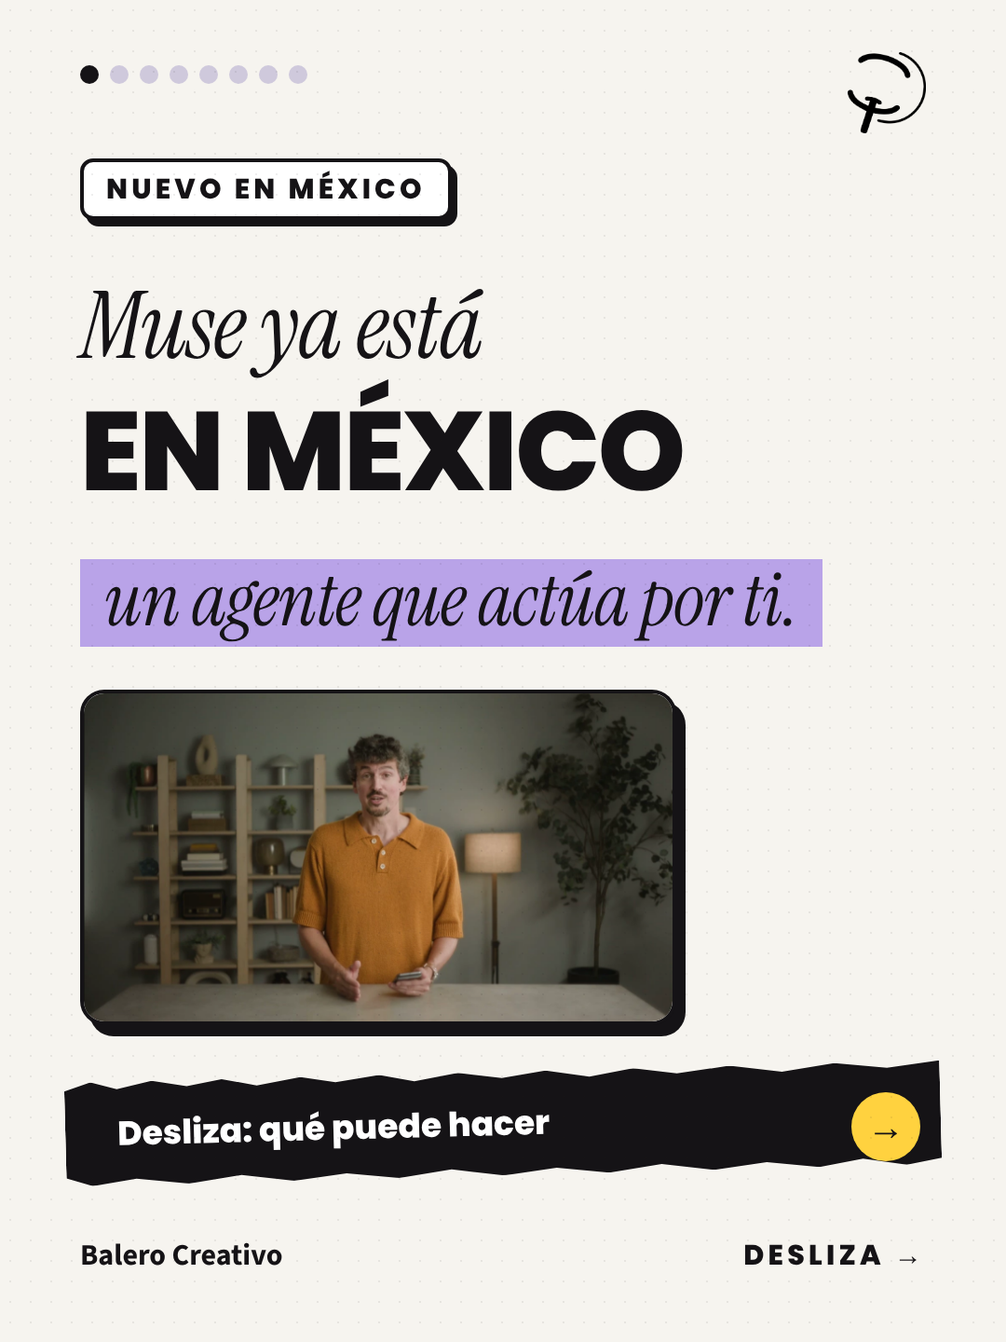
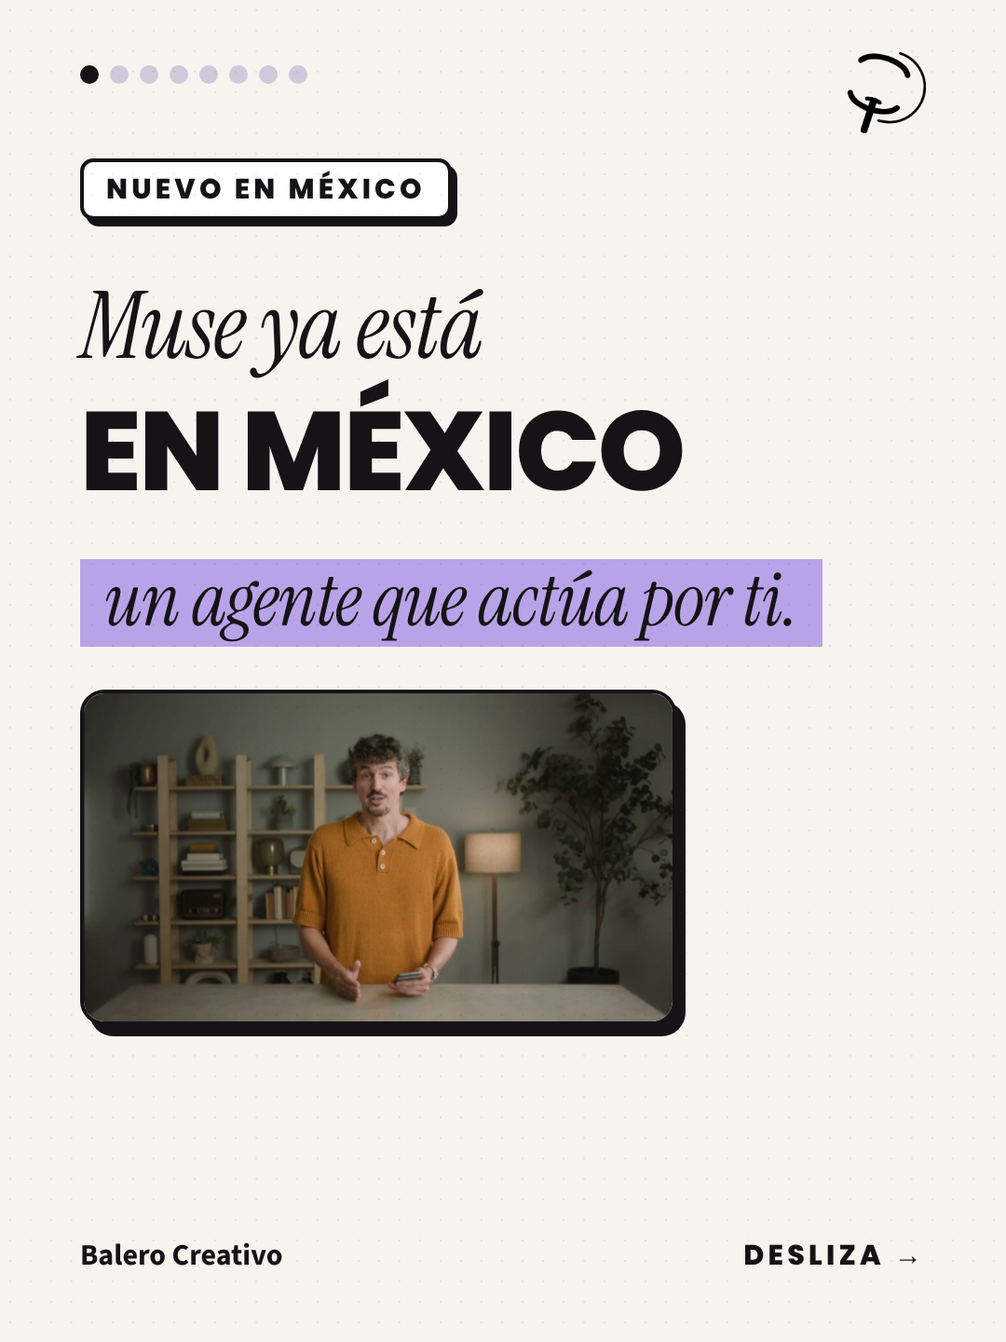
Carrusel Muse: un solo CTA (compartir al final); la portada usa solo la indicación DESLIZA
Claude-Session: https://claude.ai/code/session_01Bq7ZC7FDz5LcdZBgNXTuBm

Changed region(s): [[0.0611, 0.7812, 0.9472, 0.9062]]

diff --git a/clientes/balero/diseno/2026-11/estilo-editorial/semana/muse.html b/clientes/balero/diseno/2026-11/estilo-editorial/semana/muse.html
@@ -60,4 +60,4 @@ body{background:#888}
 .meter{position:absolute;left:86px;right:86px;background:#fff;border:4px solid #151316;border-radius:26px;box-shadow:10px 12px 0 #151316;overflow:hidden}
 
 .bigy{position:absolute;left:86px;font:800 330px/.9 Poppins;background:#FFD23F;padding:10px 30px 24px;letter-spacing:-.04em}
-</style></head><body><div class="s" id="s1"><div class="dots"><i style="background:#151316"></i><i style="background:#cfc9dc"></i><i style="background:#cfc9dc"></i><i style="background:#cfc9dc"></i><i style="background:#cfc9dc"></i><i style="background:#cfc9dc"></i><i style="background:#cfc9dc"></i><i style="background:#cfc9dc"></i></div><img class="logo" src="/home/user/balero/.claude/skills/balero-imagenes/assets/logo-balero.png"><div class="chip">NUEVO EN MÉXICO</div><div class="serif" style="position:absolute;left:86px;top:300px;font-size:100px;line-height:1">Muse ya está</div><div class="big" style="top:420px;font-size:120px;line-height:1.08">EN MÉXICO</div><div class="serif" style="position:absolute;left:86px;top:600px;font-size:80px;line-height:1"><span class="hl">un agente que actúa por ti.</span></div><div style="position:absolute;left:86px;top:740px;width:640px;height:360px;border:4px solid #151316;border-radius:26px;box-shadow:10px 12px 0 #151316;overflow:hidden;background:#fff"><img src="muse/img/real-walkthrough.png" style="width:100%;height:100%;object-fit:cover;object-position:50% 50%;display:block"></div><div class="tape" style="top:1150px;font-family:Poppins;font-weight:800;font-size:36px">Desliza: qué puede hacer</div><div class="arrow" style="top:1150px;transform:translateY(22px)">→</div><div class="foot"><span>Balero Creativo</span></div><div style="position:absolute;right:86px;bottom:70px;font:800 30px Poppins;letter-spacing:.14em">DESLIZA →</div></div><div class="s" id="s2"><div class="dots"><i style="background:#cfc9dc"></i><i style="background:#151316"></i><i style="background:#cfc9dc"></i><i style="background:#cfc9dc"></i><i style="background:#cfc9dc"></i><i style="background:#cfc9dc"></i><i style="background:#cfc9dc"></i><i style="background:#cfc9dc"></i></div><img class="logo" src="/home/user/balero/.claude/skills/balero-imagenes/assets/logo-balero.png"><div class="chip">1 · CORREO</div><div class="t" style="top:290px;font-size:100px">Empieza por tu<br><span class="serif" style="font-size:1.25em;text-transform:none;font-weight:400;background:#FFD23F;padding:0 18px">correo.</span></div><div class="body" style="top:560px;width:880px">Conectas tu correo y Muse lo lee. Te muestra primero lo que no puede esperar.</div><div style="position:absolute;left:86px;top:800px;width:420px;height:480px;border:4px solid #151316;border-radius:26px;box-shadow:10px 12px 0 #151316;overflow:hidden;background:#fff"><img src="muse/img/real-messaging.png" style="width:100%;height:100%;object-fit:cover;object-position:50% 12%;display:block"></div><div class="mini2" style="left:540px;top:820px;width:454px;height:200px;background:#fff;box-shadow:8px 9px 0 #151316;"><small>PRIMERO</small>Facturas, clientes y fechas que vencen</div><div class="mini2" style="left:540px;top:1040px;width:454px;height:200px;background:#fff;opacity:.6;border-style:dashed;"><small>DESPUÉS</small>El resto, cuando tengas tiempo</div><div class="foot"><span>Balero Creativo</span></div></div><div class="s" id="s3"><div class="dots"><i style="background:#cfc9dc"></i><i style="background:#cfc9dc"></i><i style="background:#151316"></i><i style="background:#cfc9dc"></i><i style="background:#cfc9dc"></i><i style="background:#cfc9dc"></i><i style="background:#cfc9dc"></i><i style="background:#cfc9dc"></i></div><img class="logo" src="/home/user/balero/.claude/skills/balero-imagenes/assets/logo-balero.png"><div class="chip">2 · AGENDA</div><div class="t" style="top:290px;font-size:100px">Acomoda tu<br><span class="serif" style="font-size:1.25em;text-transform:none;font-weight:400;background:#FFD23F;padding:0 18px">agenda.</span></div><div class="body" style="top:560px;width:880px">Conecta tu calendario. Muse ordena tus horarios para que sepas qué sigue.</div><div style="position:absolute;left:86px;top:800px;width:420px;height:480px;border:4px solid #151316;border-radius:26px;box-shadow:10px 12px 0 #151316;overflow:hidden;background:#fff"><img src="muse/img/real-goals.png" style="width:100%;height:100%;object-fit:contain;object-position:50% 50%;display:block"></div><div class="mini2" style="left:540px;top:820px;width:454px;height:200px;background:#fff;box-shadow:8px 9px 0 #151316;"><small>OBJETIVOS</small>Tu correo y tu calendario, juntos</div><div class="mini2" style="left:540px;top:1040px;width:454px;height:200px;background:#FFD23F;box-shadow:8px 9px 0 #151316;"><small>AVISOS</small>Te recuerda lo que viene</div><div class="foot"><span>Balero Creativo</span></div></div><div class="s" id="s4"><div class="dots"><i style="background:#cfc9dc"></i><i style="background:#cfc9dc"></i><i style="background:#cfc9dc"></i><i style="background:#151316"></i><i style="background:#cfc9dc"></i><i style="background:#cfc9dc"></i><i style="background:#cfc9dc"></i><i style="background:#cfc9dc"></i></div><img class="logo" src="/home/user/balero/.claude/skills/balero-imagenes/assets/logo-balero.png"><div class="chip">3 · INSTAGRAM</div><div class="t" style="top:290px;font-size:100px">Conecta tu<br><span class="serif" style="font-size:1.25em;text-transform:none;font-weight:400;background:#FFD23F;padding:0 18px">Instagram.</span></div><div class="body" style="top:560px;width:880px">Conecta tu cuenta de Instagram y Muse te muestra lo que sigue pendiente.</div><div style="position:absolute;left:86px;top:800px;width:420px;height:480px;border:4px solid #151316;border-radius:26px;box-shadow:10px 12px 0 #151316;overflow:hidden;background:#fff"><img src="muse/img/real-connectors.png" style="width:100%;height:100%;object-fit:contain;object-position:50% 50%;display:block"></div><div class="mini2" style="left:540px;top:820px;width:454px;height:200px;background:#fff;box-shadow:8px 9px 0 #151316;"><small>CONECTA</small>Tu cuenta de Instagram, en Muse</div><div class="mini2" style="left:540px;top:1040px;width:454px;height:200px;background:#FFD23F;box-shadow:8px 9px 0 #151316;"><small>PENDIENTE</small>Lo que sigue por responder</div><div class="foot"><span>Balero Creativo</span></div></div><div class="s" id="s5"><div class="dots"><i style="background:#cfc9dc"></i><i style="background:#cfc9dc"></i><i style="background:#cfc9dc"></i><i style="background:#cfc9dc"></i><i style="background:#151316"></i><i style="background:#cfc9dc"></i><i style="background:#cfc9dc"></i><i style="background:#cfc9dc"></i></div><img class="logo" src="/home/user/balero/.claude/skills/balero-imagenes/assets/logo-balero.png"><div class="chip">4 · CHAT Y VOZ</div><div class="t" style="top:290px;font-size:100px">Chatea con Muse<br><span class="serif" style="font-size:1.25em;text-transform:none;font-weight:400;background:#FFD23F;padding:0 18px">por texto o voz.</span></div><div class="body" style="top:560px;width:880px">Le escribes o le hablas. Muse también puede escribirte por WhatsApp.</div><div style="position:absolute;left:86px;top:800px;width:420px;height:480px;border:4px solid #151316;border-radius:26px;box-shadow:10px 12px 0 #151316;overflow:hidden;background:#fff"><img src="muse/img/real-messaging.png" style="width:100%;height:100%;object-fit:cover;object-position:50% 55%;display:block"></div><div class="mini2" style="left:540px;top:820px;width:454px;height:200px;background:#fff;box-shadow:8px 9px 0 #151316;"><small>TEXTO</small>Escribe lo que necesitas</div><div class="mini2" style="left:540px;top:1040px;width:454px;height:200px;background:#FFD23F;box-shadow:8px 9px 0 #151316;"><small>VOZ</small>Háblale y Muse te responde</div><div class="foot"><span>Balero Creativo</span></div></div><div class="s" id="s6"><div class="dots"><i style="background:#cfc9dc"></i><i style="background:#cfc9dc"></i><i style="background:#cfc9dc"></i><i style="background:#cfc9dc"></i><i style="background:#cfc9dc"></i><i style="background:#151316"></i><i style="background:#cfc9dc"></i><i style="background:#cfc9dc"></i></div><img class="logo" src="/home/user/balero/.claude/skills/balero-imagenes/assets/logo-balero.png"><div class="chip">5 · SIGUE TRABAJANDO</div><div class="t" style="top:290px;font-size:100px">Aunque cierres<br><span class="serif" style="font-size:1.25em;text-transform:none;font-weight:400;background:#FFD23F;padding:0 18px">la app.</span></div><div class="body" style="top:560px;width:880px">Muse sigue trabajando en segundo plano. No tienes que tener la app abierta.</div><div style="position:absolute;left:86px;top:800px;width:420px;height:480px;border:4px solid #151316;border-radius:26px;box-shadow:10px 12px 0 #151316;overflow:hidden;background:#fff"><img src="muse/img/real-browser.png" style="width:100%;height:100%;object-fit:cover;object-position:50% 55%;display:block"></div><div class="mini2" style="left:540px;top:820px;width:454px;height:200px;background:#fff;box-shadow:8px 9px 0 #151316;"><small>SEGUNDO PLANO</small>Busca asientos por ti</div><div class="mini2" style="left:540px;top:1040px;width:454px;height:200px;background:#FFD23F;box-shadow:8px 9px 0 #151316;"><small>TE AVISA</small>Te escribe si hay algo que revisar</div><div class="foot"><span>Balero Creativo</span></div></div><div class="s" id="s7"><div class="dots"><i style="background:#cfc9dc"></i><i style="background:#cfc9dc"></i><i style="background:#cfc9dc"></i><i style="background:#cfc9dc"></i><i style="background:#cfc9dc"></i><i style="background:#cfc9dc"></i><i style="background:#151316"></i><i style="background:#cfc9dc"></i></div><img class="logo" src="/home/user/balero/.claude/skills/balero-imagenes/assets/logo-balero.png"><div class="chip">6 · ANTES DE CONECTARLO</div><div class="t" style="top:290px;font-size:100px">Define qué le<br><span class="serif" style="font-size:1.25em;text-transform:none;font-weight:400;background:#FFD23F;padding:0 18px">das permiso.</span></div><div class="body" style="top:560px;width:880px">Un asistente con acceso a tu correo necesita reglas claras.</div><div style="position:absolute;left:86px;top:800px;width:420px;height:480px;border:4px solid #151316;border-radius:26px;box-shadow:10px 12px 0 #151316;overflow:hidden;background:#fff"><img src="muse/img/real-approvals.png" style="width:100%;height:100%;object-fit:cover;object-position:50% 78%;display:block"></div><div class="mini2" style="left:540px;top:820px;width:454px;height:200px;background:#fff;opacity:.6;border-style:dashed;"><small>ASÍ NO</small>Dar acceso a todo sin revisar</div><div class="mini2" style="left:540px;top:1040px;width:454px;height:200px;background:#FFD23F;box-shadow:8px 9px 0 #151316;"><small>ASÍ SÍ</small>Decide qué puede ver y qué no</div><div class="foot"><span>Balero Creativo</span></div></div><div class="s" id="s8"><div class="dots"><i style="background:#cfc9dc"></i><i style="background:#cfc9dc"></i><i style="background:#cfc9dc"></i><i style="background:#cfc9dc"></i><i style="background:#cfc9dc"></i><i style="background:#cfc9dc"></i><i style="background:#cfc9dc"></i><i style="background:#151316"></i></div><img class="logo" src="/home/user/balero/.claude/skills/balero-imagenes/assets/logo-balero.png"><div class="serif" style="position:absolute;left:86px;top:330px;font-size:104px;line-height:1">Guarda este</div><div class="big" style="top:450px;font-size:100px;line-height:1.08">CARRUSEL</div><div class="serif" style="position:absolute;left:86px;top:570px;font-size:96px;line-height:1"><span class="hl">para cuando lo pruebes.</span></div><div class="body" style="top:1010px;width:440px">Compártelo con quien siempre tiene la bandeja de correo llena.</div><div style="position:absolute;left:640px;top:860px;width:300px;height:380px;border:4px solid #151316;border-radius:26px;box-shadow:10px 12px 0 #151316;overflow:hidden;background:#fff"><img src="muse/img/real-secure-storage.png" style="width:100%;height:100%;object-fit:contain;object-position:50% 50%;display:block"></div><div class="tape" style="top:760px;font-family:Poppins;font-weight:800;font-size:36px">Compartir este carrusel</div><div class="arrow" style="top:760px;transform:translateY(22px)">→</div><div class="foot"><span>Balero Creativo</span></div><div style="position:absolute;right:86px;bottom:70px;font:700 30px 'Source Sans Pro';color:#3d3a42;text-align:right;max-width:640px">Fuente: Meta, muse.ai</div></div></body></html>
+</style></head><body><div class="s" id="s1"><div class="dots"><i style="background:#151316"></i><i style="background:#cfc9dc"></i><i style="background:#cfc9dc"></i><i style="background:#cfc9dc"></i><i style="background:#cfc9dc"></i><i style="background:#cfc9dc"></i><i style="background:#cfc9dc"></i><i style="background:#cfc9dc"></i></div><img class="logo" src="/home/user/balero/.claude/skills/balero-imagenes/assets/logo-balero.png"><div class="chip">NUEVO EN MÉXICO</div><div class="serif" style="position:absolute;left:86px;top:300px;font-size:100px;line-height:1">Muse ya está</div><div class="big" style="top:420px;font-size:120px;line-height:1.08">EN MÉXICO</div><div class="serif" style="position:absolute;left:86px;top:600px;font-size:80px;line-height:1"><span class="hl">un agente que actúa por ti.</span></div><div style="position:absolute;left:86px;top:740px;width:640px;height:360px;border:4px solid #151316;border-radius:26px;box-shadow:10px 12px 0 #151316;overflow:hidden;background:#fff"><img src="muse/img/real-walkthrough.png" style="width:100%;height:100%;object-fit:cover;object-position:50% 50%;display:block"></div><div class="foot"><span>Balero Creativo</span></div><div style="position:absolute;right:86px;bottom:70px;font:800 30px Poppins;letter-spacing:.14em">DESLIZA →</div></div><div class="s" id="s2"><div class="dots"><i style="background:#cfc9dc"></i><i style="background:#151316"></i><i style="background:#cfc9dc"></i><i style="background:#cfc9dc"></i><i style="background:#cfc9dc"></i><i style="background:#cfc9dc"></i><i style="background:#cfc9dc"></i><i style="background:#cfc9dc"></i></div><img class="logo" src="/home/user/balero/.claude/skills/balero-imagenes/assets/logo-balero.png"><div class="chip">1 · CORREO</div><div class="t" style="top:290px;font-size:100px">Empieza por tu<br><span class="serif" style="font-size:1.25em;text-transform:none;font-weight:400;background:#FFD23F;padding:0 18px">correo.</span></div><div class="body" style="top:560px;width:880px">Conectas tu correo y Muse lo lee. Te muestra primero lo que no puede esperar.</div><div style="position:absolute;left:86px;top:800px;width:420px;height:480px;border:4px solid #151316;border-radius:26px;box-shadow:10px 12px 0 #151316;overflow:hidden;background:#fff"><img src="muse/img/real-messaging.png" style="width:100%;height:100%;object-fit:cover;object-position:50% 12%;display:block"></div><div class="mini2" style="left:540px;top:820px;width:454px;height:200px;background:#fff;box-shadow:8px 9px 0 #151316;"><small>PRIMERO</small>Facturas, clientes y fechas que vencen</div><div class="mini2" style="left:540px;top:1040px;width:454px;height:200px;background:#fff;opacity:.6;border-style:dashed;"><small>DESPUÉS</small>El resto, cuando tengas tiempo</div><div class="foot"><span>Balero Creativo</span></div></div><div class="s" id="s3"><div class="dots"><i style="background:#cfc9dc"></i><i style="background:#cfc9dc"></i><i style="background:#151316"></i><i style="background:#cfc9dc"></i><i style="background:#cfc9dc"></i><i style="background:#cfc9dc"></i><i style="background:#cfc9dc"></i><i style="background:#cfc9dc"></i></div><img class="logo" src="/home/user/balero/.claude/skills/balero-imagenes/assets/logo-balero.png"><div class="chip">2 · AGENDA</div><div class="t" style="top:290px;font-size:100px">Acomoda tu<br><span class="serif" style="font-size:1.25em;text-transform:none;font-weight:400;background:#FFD23F;padding:0 18px">agenda.</span></div><div class="body" style="top:560px;width:880px">Conecta tu calendario. Muse ordena tus horarios para que sepas qué sigue.</div><div style="position:absolute;left:86px;top:800px;width:420px;height:480px;border:4px solid #151316;border-radius:26px;box-shadow:10px 12px 0 #151316;overflow:hidden;background:#fff"><img src="muse/img/real-goals.png" style="width:100%;height:100%;object-fit:contain;object-position:50% 50%;display:block"></div><div class="mini2" style="left:540px;top:820px;width:454px;height:200px;background:#fff;box-shadow:8px 9px 0 #151316;"><small>OBJETIVOS</small>Tu correo y tu calendario, juntos</div><div class="mini2" style="left:540px;top:1040px;width:454px;height:200px;background:#FFD23F;box-shadow:8px 9px 0 #151316;"><small>AVISOS</small>Te recuerda lo que viene</div><div class="foot"><span>Balero Creativo</span></div></div><div class="s" id="s4"><div class="dots"><i style="background:#cfc9dc"></i><i style="background:#cfc9dc"></i><i style="background:#cfc9dc"></i><i style="background:#151316"></i><i style="background:#cfc9dc"></i><i style="background:#cfc9dc"></i><i style="background:#cfc9dc"></i><i style="background:#cfc9dc"></i></div><img class="logo" src="/home/user/balero/.claude/skills/balero-imagenes/assets/logo-balero.png"><div class="chip">3 · INSTAGRAM</div><div class="t" style="top:290px;font-size:100px">Conecta tu<br><span class="serif" style="font-size:1.25em;text-transform:none;font-weight:400;background:#FFD23F;padding:0 18px">Instagram.</span></div><div class="body" style="top:560px;width:880px">Conecta tu cuenta de Instagram y Muse te muestra lo que sigue pendiente.</div><div style="position:absolute;left:86px;top:800px;width:420px;height:480px;border:4px solid #151316;border-radius:26px;box-shadow:10px 12px 0 #151316;overflow:hidden;background:#fff"><img src="muse/img/real-connectors.png" style="width:100%;height:100%;object-fit:contain;object-position:50% 50%;display:block"></div><div class="mini2" style="left:540px;top:820px;width:454px;height:200px;background:#fff;box-shadow:8px 9px 0 #151316;"><small>CONECTA</small>Tu cuenta de Instagram, en Muse</div><div class="mini2" style="left:540px;top:1040px;width:454px;height:200px;background:#FFD23F;box-shadow:8px 9px 0 #151316;"><small>PENDIENTE</small>Lo que sigue por responder</div><div class="foot"><span>Balero Creativo</span></div></div><div class="s" id="s5"><div class="dots"><i style="background:#cfc9dc"></i><i style="background:#cfc9dc"></i><i style="background:#cfc9dc"></i><i style="background:#cfc9dc"></i><i style="background:#151316"></i><i style="background:#cfc9dc"></i><i style="background:#cfc9dc"></i><i style="background:#cfc9dc"></i></div><img class="logo" src="/home/user/balero/.claude/skills/balero-imagenes/assets/logo-balero.png"><div class="chip">4 · CHAT Y VOZ</div><div class="t" style="top:290px;font-size:100px">Chatea con Muse<br><span class="serif" style="font-size:1.25em;text-transform:none;font-weight:400;background:#FFD23F;padding:0 18px">por texto o voz.</span></div><div class="body" style="top:560px;width:880px">Le escribes o le hablas. Muse también puede escribirte por WhatsApp.</div><div style="position:absolute;left:86px;top:800px;width:420px;height:480px;border:4px solid #151316;border-radius:26px;box-shadow:10px 12px 0 #151316;overflow:hidden;background:#fff"><img src="muse/img/real-messaging.png" style="width:100%;height:100%;object-fit:cover;object-position:50% 55%;display:block"></div><div class="mini2" style="left:540px;top:820px;width:454px;height:200px;background:#fff;box-shadow:8px 9px 0 #151316;"><small>TEXTO</small>Escribe lo que necesitas</div><div class="mini2" style="left:540px;top:1040px;width:454px;height:200px;background:#FFD23F;box-shadow:8px 9px 0 #151316;"><small>VOZ</small>Háblale y Muse te responde</div><div class="foot"><span>Balero Creativo</span></div></div><div class="s" id="s6"><div class="dots"><i style="background:#cfc9dc"></i><i style="background:#cfc9dc"></i><i style="background:#cfc9dc"></i><i style="background:#cfc9dc"></i><i style="background:#cfc9dc"></i><i style="background:#151316"></i><i style="background:#cfc9dc"></i><i style="background:#cfc9dc"></i></div><img class="logo" src="/home/user/balero/.claude/skills/balero-imagenes/assets/logo-balero.png"><div class="chip">5 · SIGUE TRABAJANDO</div><div class="t" style="top:290px;font-size:100px">Aunque cierres<br><span class="serif" style="font-size:1.25em;text-transform:none;font-weight:400;background:#FFD23F;padding:0 18px">la app.</span></div><div class="body" style="top:560px;width:880px">Muse sigue trabajando en segundo plano. No tienes que tener la app abierta.</div><div style="position:absolute;left:86px;top:800px;width:420px;height:480px;border:4px solid #151316;border-radius:26px;box-shadow:10px 12px 0 #151316;overflow:hidden;background:#fff"><img src="muse/img/real-browser.png" style="width:100%;height:100%;object-fit:cover;object-position:50% 55%;display:block"></div><div class="mini2" style="left:540px;top:820px;width:454px;height:200px;background:#fff;box-shadow:8px 9px 0 #151316;"><small>SEGUNDO PLANO</small>Busca asientos por ti</div><div class="mini2" style="left:540px;top:1040px;width:454px;height:200px;background:#FFD23F;box-shadow:8px 9px 0 #151316;"><small>TE AVISA</small>Te escribe si hay algo que revisar</div><div class="foot"><span>Balero Creativo</span></div></div><div class="s" id="s7"><div class="dots"><i style="background:#cfc9dc"></i><i style="background:#cfc9dc"></i><i style="background:#cfc9dc"></i><i style="background:#cfc9dc"></i><i style="background:#cfc9dc"></i><i style="background:#cfc9dc"></i><i style="background:#151316"></i><i style="background:#cfc9dc"></i></div><img class="logo" src="/home/user/balero/.claude/skills/balero-imagenes/assets/logo-balero.png"><div class="chip">6 · ANTES DE CONECTARLO</div><div class="t" style="top:290px;font-size:100px">Define qué le<br><span class="serif" style="font-size:1.25em;text-transform:none;font-weight:400;background:#FFD23F;padding:0 18px">das permiso.</span></div><div class="body" style="top:560px;width:880px">Un asistente con acceso a tu correo necesita reglas claras.</div><div style="position:absolute;left:86px;top:800px;width:420px;height:480px;border:4px solid #151316;border-radius:26px;box-shadow:10px 12px 0 #151316;overflow:hidden;background:#fff"><img src="muse/img/real-approvals.png" style="width:100%;height:100%;object-fit:cover;object-position:50% 78%;display:block"></div><div class="mini2" style="left:540px;top:820px;width:454px;height:200px;background:#fff;opacity:.6;border-style:dashed;"><small>ASÍ NO</small>Dar acceso a todo sin revisar</div><div class="mini2" style="left:540px;top:1040px;width:454px;height:200px;background:#FFD23F;box-shadow:8px 9px 0 #151316;"><small>ASÍ SÍ</small>Decide qué puede ver y qué no</div><div class="foot"><span>Balero Creativo</span></div></div><div class="s" id="s8"><div class="dots"><i style="background:#cfc9dc"></i><i style="background:#cfc9dc"></i><i style="background:#cfc9dc"></i><i style="background:#cfc9dc"></i><i style="background:#cfc9dc"></i><i style="background:#cfc9dc"></i><i style="background:#cfc9dc"></i><i style="background:#151316"></i></div><img class="logo" src="/home/user/balero/.claude/skills/balero-imagenes/assets/logo-balero.png"><div class="serif" style="position:absolute;left:86px;top:330px;font-size:104px;line-height:1">Guarda este</div><div class="big" style="top:450px;font-size:100px;line-height:1.08">CARRUSEL</div><div class="serif" style="position:absolute;left:86px;top:570px;font-size:96px;line-height:1"><span class="hl">para cuando lo pruebes.</span></div><div class="body" style="top:1010px;width:440px">Compártelo con quien siempre tiene la bandeja de correo llena.</div><div style="position:absolute;left:640px;top:860px;width:300px;height:380px;border:4px solid #151316;border-radius:26px;box-shadow:10px 12px 0 #151316;overflow:hidden;background:#fff"><img src="muse/img/real-secure-storage.png" style="width:100%;height:100%;object-fit:contain;object-position:50% 50%;display:block"></div><div class="tape" style="top:760px;font-family:Poppins;font-weight:800;font-size:36px">Compartir este carrusel</div><div class="arrow" style="top:760px;transform:translateY(22px)">→</div><div class="foot"><span>Balero Creativo</span></div><div style="position:absolute;right:86px;bottom:70px;font:700 30px 'Source Sans Pro';color:#3d3a42;text-align:right;max-width:640px">Fuente: Meta, muse.ai</div></div></body></html>

diff --git a/clientes/balero/diseno/2026-11/estilo-editorial/semana/defs.py b/clientes/balero/diseno/2026-11/estilo-editorial/semana/defs.py
@@ -131,7 +131,7 @@ def col(n,fit='contain',pos='50% 50%'): return rl(n,86,800,420,480,fit,pos)
 def cards(*items): return ''.join(items)
 muse=[
  (chip('NUEVO EN MÉXICO')+serif('Muse ya está',300,100)+big('EN MÉXICO',420,120)+serif('<span class="hl">un agente que actúa por ti.</span>',600,80)+
-   rl('walkthrough',86,740,640,360,'cover')+tape('Desliza: qué puede hacer',1150), FD),
+   rl('walkthrough',86,740,640,360,'cover'), FD),
  (chip('1 · CORREO')+title('Empieza por tu',hl('correo.'))+body('Conectas tu correo y Muse lo lee. Te muestra primero lo que no puede esperar.',560)+
    col('messaging','cover','50% 12%')+mini(540,820,454,200,'PRIMERO','Facturas, clientes y fechas que vencen')+mini(540,1040,454,200,'DESPUÉS','El resto, cuando tengas tiempo',bad=True), FOOT),
  (chip('2 · AGENDA')+title('Acomoda tu',hl('agenda.'))+body('Conecta tu calendario. Muse ordena tus horarios para que sepas qué sigue.',560)+
